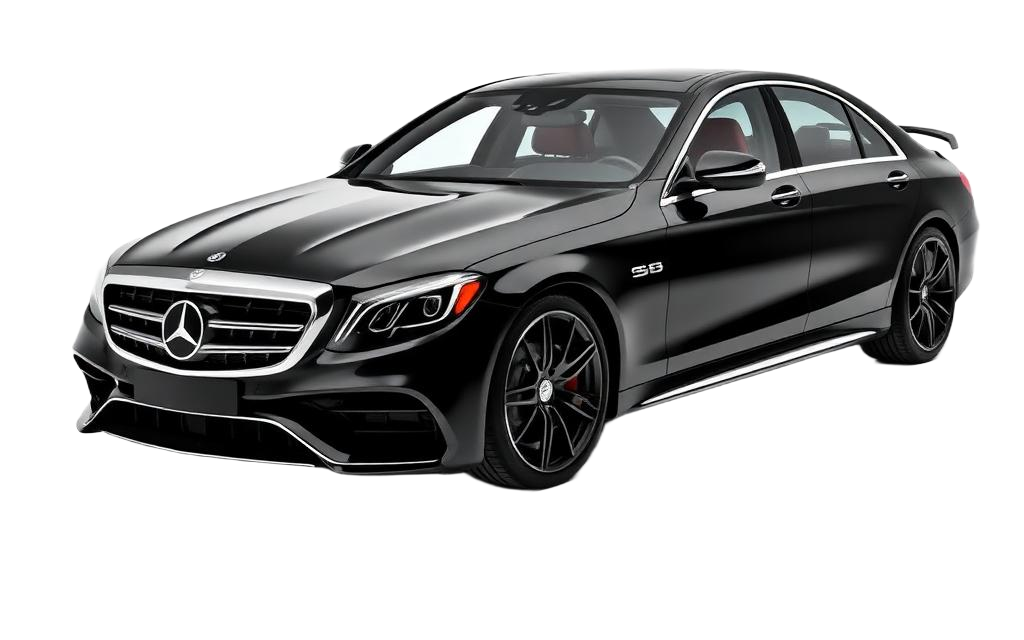
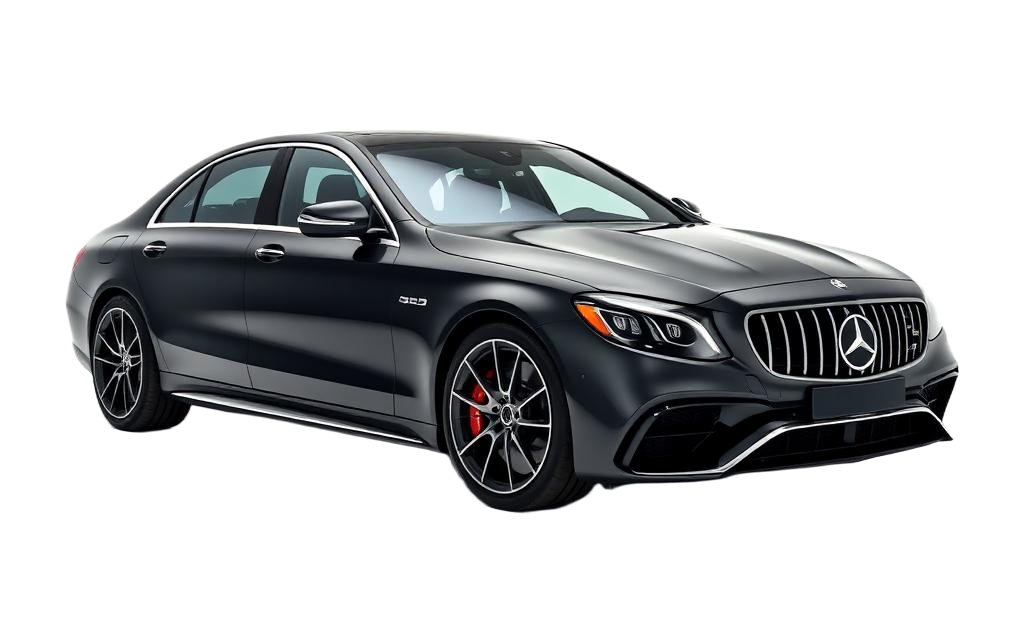
Update s63 2024 image

diff --git a/src/data/tuningCars.ts b/src/data/tuningCars.ts
@@ -278,12 +278,12 @@ export const tuningCars: TuningCar[] = [
     },
   },
 
-  // ── W222 S63 M177 ──
+  // ── W223 S63 AMG E Performance ──
   {
     id: 's63',
-    name: 'S63 AMG',
+    name: 'S63 AMG E Performance',
     brand: 'Mercedes',
-    engine: 'M177',
+    engine: 'M177 + Electric',
     image: s63Image,
     availableStages: ['stock', 'stage1', 'stage2', 'stage3', 'stage4', 'vip'],
     stages: {
